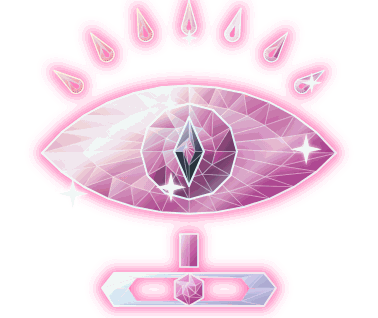
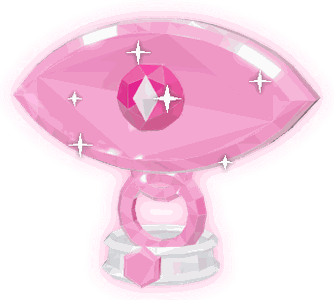
v27.26 베타 테라 관 = three.js 3D 결정 모델 19종, 관은 늘 체력 박스 밑
경완 '아 근데 디자인 왤케 플랫하지. 3d 모델 써서 뽑아볼 순 없어?' · '형태도 내가 보내준 캡처 사진들이랑 달라'
- assets_src/tera/crown3d: 캡처 실루엣대로 3D 모델(투명 굴절·분산·무지개 반사·깎인 면) → gym/img/dbk/Tera/cr/<타입>.png
경완 '배틀화면에서 왕관이 배틀박스 가리지 않게 해줘'
- gym.css .bt:has(.bt-tcr) .bt-hb z-index 7, battle.js tcOn 화면 위로 넘칠 때만 줄임

Claude-Session: https://claude.ai/code/session_012Z4iFhJSZVUqi84qFHnPor

diff --git a/assets_src/tera/crown3d/crown3d.js b/assets_src/tera/crown3d/crown3d.js
@@ -1,0 +1,182 @@
+/*
+ * 포켓에그 © 2026 flyweb123-code. 무단 사용·복제·수정·재배포 및 AI 학습·수집 금지 (LICENSE 참고).
+ * 포켓몬 관련 권리는 Nintendo·Creatures·GAME FREAK, 외부 자료는 각 권리자에게 있음.
+ * 이 코드·자료를 내려받아 활용해서 생기는 모든 법적 책임은 내려받아 활용한 사람에게 있으며, 제작자는 책임지지 않음.
+ * Copyright (c) 2026 flyweb123-code. No unauthorized use, copying, modification, redistribution or AI training/scraping.
+ * Anyone who downloads and uses this code or material bears all legal responsibility for that use; the author accepts no liability.
+ */
+// 테라 관 19종 3D 모델 (three.js) — 본가 캡처 실루엣을 따라 결정 덩어리로
+import * as THREE from './three.module.js';
+import { RoomEnvironment } from './jsm/environments/RoomEnvironment.js';
+import { mergeVertices } from './jsm/utils/BufferGeometryUtils.js';
+
+const W = 480, H = 400;
+const R = new THREE.WebGLRenderer({ antialias: true, alpha: true, preserveDrawingBuffer: true });
+R.setSize(W, H); R.setPixelRatio(1); R.outputColorSpace = THREE.SRGBColorSpace; R.toneMapping = THREE.ACESFilmicToneMapping; R.toneMappingExposure = .8;
+document.body.appendChild(R.domElement);
+const pm = new THREE.PMREMGenerator(R), ENV = pm.fromScene(new RoomEnvironment(), .04).texture;
+const BG = (() => { const c = document.createElement('canvas'); c.width = 512; c.height = 256; const x = c.getContext('2d'); const g = x.createLinearGradient(0, 0, 512, 256); ['#ffd0f0', '#c0e8ff', '#fff4c0', '#d8c8ff', '#c8ffe8'].forEach((k, i) => g.addColorStop(i / 4, k)); x.fillStyle = g; x.fillRect(0, 0, 512, 256); for (let i = 0; i < 40; i++) { x.fillStyle = `rgba(255,255,255,${Math.random() * .8})`; x.beginPath(); x.arc(Math.random() * 512, Math.random() * 256, 4 + Math.random() * 20, 0, 7); x.fill(); } const t = new THREE.CanvasTexture(c); t.mapping = THREE.EquirectangularReflectionMapping; t.colorSpace = THREE.SRGBColorSpace; return t; })();
+const cam = new THREE.PerspectiveCamera(26, W / H, .1, 100);
+
+let seed = 1; const rnd = () => (seed = (seed * 16807) % 2147483647) / 2147483647;
+// 결정 재질: 굴절빛(iridescence) + 반사 + 납작 면
+const gm = (c, o = {}) => new THREE.MeshPhysicalMaterial({ color: c, roughness: o.r ?? .06, metalness: o.m ?? .05, iridescence: o.ir ?? 1, iridescenceIOR: 1.9, iridescenceThicknessRange: [180, 820],
+  clearcoat: 1, clearcoatRoughness: .05, specularIntensity: 1, envMapIntensity: o.env ?? 1.5, flatShading: true, transparent: false, opacity: 1,
+  transmission: (o.m ?? .05) > .5 ? 0 : (o.tr ?? Math.min(.85, 1.25 - (o.op ?? .94))), thickness: 1.4, ior: 2.1, dispersion: 4, attenuationColor: new THREE.Color(c), attenuationDistance: 1.6,
+  emissive: new THREE.Color(o.em ?? c).multiplyScalar((o.ek ?? .16) * .5), side: THREE.DoubleSide });
+const GOLD = () => gm('#e6b44a', { m: 1, r: .22, ir: .3, op: 1, ek: .05 });
+const SILVER = () => gm('#e8ecf4', { m: .9, r: .18, ir: .5, op: 1, ek: .05 });
+// 면을 살짝 흔들어 깎은 결정처럼
+function jit(g, a = .06) { g.deleteAttribute('normal'); g.deleteAttribute('uv'); g = mergeVertices(g); const p = g.attributes.position, M = new Map();
+  for (let i = 0; i < p.count; i++) { const k = [p.getX(i), p.getY(i), p.getZ(i)].map(v => v.toFixed(3)).join(); if (!M.has(k)) M.set(k, [(rnd() - .5) * a, (rnd() - .5) * a, (rnd() - .5) * a]); const d = M.get(k); p.setXYZ(i, p.getX(i) + d[0], p.getY(i) + d[1], p.getZ(i) + d[2]); }
+  g = g.toNonIndexed(); g.computeVertexNormals(); return g; }
+function faceCol(g) { if (g.index) g = g.toNonIndexed(); const n = g.attributes.position.count, c = new Float32Array(n * 3); for (let i = 0; i < n; i += 3) { const v = .78 + rnd() * .42; for (let k = 0; k < 9; k++) c[i * 3 + k] = v; } g.setAttribute('color', new THREE.BufferAttribute(c, 3)); return g; }
+let G; const add = (geo, mat, pos = [0, 0, 0], rot = [0, 0, 0], sc = [1, 1, 1], par) => { const cry = mat.metalness < .5; if (cry) { geo = faceCol(geo); mat.vertexColors = true; } const m = new THREE.Mesh(geo, mat);
+  if (cry) m.add(new THREE.LineSegments(new THREE.EdgesGeometry(geo, 18), new THREE.LineBasicMaterial({ color: '#ffffff', transparent: true, opacity: .32 }))); m.position.set(...pos); m.rotation.set(...rot); m.scale.set(...(Array.isArray(sc) ? sc : [sc, sc, sc])); (par || G).add(m); return m; };
+const V2 = (x, y) => new THREE.Vector2(x, y), V3 = (x, y, z = 0) => new THREE.Vector3(x, y, z);
+const lathe = (pts, n = 10) => jit(new THREE.LatheGeometry(pts.map(p => V2(...p)), n), .02);
+const ico = (r, d = 1, a = .08) => jit(new THREE.IcosahedronGeometry(r, d), a * r);
+const oct = r => new THREE.OctahedronGeometry(r, 0);
+const shp = (pts, depth = .5, bev = .25, segs = 1, holes = []) => { const s = new THREE.Shape(pts.map(p => V2(...p))); holes.forEach(h => s.holes.push(new THREE.Path(h.map(p => V2(...p))))); const g = new THREE.ExtrudeGeometry(s, { depth, bevelEnabled: true, bevelThickness: bev, bevelSize: bev * .8, bevelSegments: segs, curveSegments: 6 }); g.translate(0, 0, -depth / 2); return jit(g, .015); };
+const tube = (pts, r, seg = 28, rs = 6) => new THREE.TubeGeometry(new THREE.CatmullRomCurve3(pts.map(p => V3(...p))), seg, r, rs, false);
+const drop = (r, h, n = 8) => lathe([[0, -r], [r * .7, -r * .7], [r, 0], [r * .8, h * .3], [r * .45, h * .65], [0, h]], n);
+const arcPts = (cx, cy, rx, ry, a0, a1, n = 16) => Array.from({ length: n + 1 }, (_, i) => { const a = a0 + (a1 - a0) * i / n; return [cx + Math.cos(a) * rx, cy + Math.sin(a) * ry]; });
+const star = (R0, r0, n = 5, rot = Math.PI / 2) => Array.from({ length: n * 2 }, (_, i) => { const a = rot + Math.PI * i / n, q = i % 2 ? r0 : R0; return [Math.cos(a) * q, Math.sin(a) * q]; });
+const hexP = (r, rot = Math.PI / 6) => Array.from({ length: 6 }, (_, i) => [Math.cos(rot + i * Math.PI / 3) * r, Math.sin(rot + i * Math.PI / 3) * r]);
+// 공통 받침: 낮은 흰 결정 띠 + 앞에 테라 보석
+function base(col, y = -2.05, w = .85, gold) { add(jit(new THREE.CylinderGeometry(w, w * 1.08, .42, 12, 1, true), .02), gold ? GOLD() : gm('#f4f6ff', { op: .97, ek: .1 }), [0, y, 0]);
+  add(jit(new THREE.TorusGeometry(w * 1.02, .09, 4, 14), .01), gold ? GOLD() : gm('#ffffff', { op: 1 }), [0, y + .21, 0], [Math.PI / 2, 0, 0]);
+  add(jit(new THREE.TorusGeometry(w * 1.06, .09, 4, 14), .01), gold ? GOLD() : gm('#ffffff', { op: 1 }), [0, y - .21, 0], [Math.PI / 2, 0, 0]);
+  add(shp(hexP(.26), .12, .07), gm(col, { op: 1, ek: .3 }), [0, y, w * 1.07]); }
+const C = { Normal: '#f4f6ff', Fire: '#ff5a2a', Water: '#3a9cff', Grass: '#5ad046', Electric: '#ffd21e', Ice: '#9ae8f8', Fighting: '#e8503a', Poison: '#b45ae6', Ground: '#e0aa3a', Flying: '#9ab8ff', Psychic: '#ff68b0', Bug: '#b8d830', Rock: '#d8b060', Ghost: '#8a6ad8', Dragon: '#7a5cff', Dark: '#d84a5a', Steel: '#d8dee8', Fairy: '#ff8ad8', Stellar: '#58b8ff' };
+const M = {
+  Normal() { // 큰 브릴리언트 다이아 + 금 테두리 + 양옆 둥근 보석 + 금 반지
+    const d = add(lathe([[0, 1.0], [1.05, 1.0], [1.75, .55], [1.8, .4], [0, -1.2]], 16), gm('#f8faff', { op: .9, ek: .08 }), [0, .75, 0], [.42, 0, 0], [1.15, 1.15, 1.15]);
+    add(jit(new THREE.TorusGeometry(2.07, .11, 5, 24), .01), GOLD(), [0, 1.2, -.08], [Math.PI / 2 + .42, 0, 0]);
+    [-1, 1].forEach(s => { add(tube([[s * .4, -.9, 0], [s * 1.6, -1.2, 0], [s * 2.25, -.5, 0], [s * 2.3, .0, 0]], .1), GOLD());
+      add(ico(.55, 1), gm('#ffffff', { op: .9 }), [s * 2.3, .1, 0]); add(jit(new THREE.TorusGeometry(.58, .08, 4, 14), .01), GOLD(), [s * 2.3, .1, 0]); });
+    add(tube([[-.35, -1.0, 0], [0, -1.5, 0], [.35, -1.0, 0]], .09), GOLD());
+    base('#fff4b0', -2.05, 1.0, 1); add(shp(star(.3, .13), .1, .05), gm('#ffe060', { op: 1, ek: .4 }), [0, -2.05, 1.12]); },
+  Fire() { // 촛불 샹들리에: 붉은 받침·팔, 유리 잔, 불꽃 결정 다발
+    base('#ff7a2a'); const red = () => gm('#d8202a', { op: .95, ek: .25 }), glass = () => gm('#ffe8e0', { op: .55, ek: .1 }), fl = () => gm('#ff6a1a', { op: .9, ek: .55, em: '#ff4a00' }), fy = () => gm('#fff0a0', { op: .85, ek: .7, em: '#ffd040' });
+    add(lathe([[0, -1.8], [.55, -1.75], [.3, -1.4], [.22, -.6], [.35, -.4], [0, -.35]], 8), red());
+    const F = [[0, .5, 1.55, 0], [-.85, .15, 1.25, .18], [.85, .15, 1.25, -.18], [-1.65, -.25, 1.0, .32], [1.65, -.25, 1.0, -.32], [-.45, .0, .9, .1], [.45, .0, .9, -.1]];
+    F.forEach(([x, y, h, rz], i) => { if (i) add(tube([[0, -.6, 0], [x * .5, -.9, .1], [x, -.75, 0], [x, y - .55, 0]], .07), red());
+      add(lathe([[0, -.35], [.32, -.3], [.38, 0], [.3, .05], [0, .02]], 8), glass(), [x, y - .45, 0]);
+      add(drop(.42, h * 1.5, 7), fl(), [x, y, 0], [0, 0, rz]); add(drop(.22, h * .8, 6), fy(), [x, y - .05, .18], [0, 0, rz]); }); },
+  Water() { // 분수: 마디 있는 기둥 + 위에서 양옆으로 말려 떨어지는 큰 물결 + 물방울
+    base('#3a9cff'); const w = () => gm('#4aaaff', { op: .86, ek: .22 }), wl = () => gm('#c8f0ff', { op: .8, ek: .2 });
+    add(lathe([[0, -1.85], [.5, -1.8], [.28, -1.4], [.42, -1.1], [.25, -.8], [.4, -.5], [.22, -.2], [.5, .1], [0, .2]], 8), w());
+    [-1, 1].forEach(s => { const P = [[0, .3], [.7, 1.25], [1.6, 1.45], [2.35, .95], [2.5, .2], [2.2, -.35], [1.9, -.05], [2.0, .5], [1.6, .9], [1.0, .85], [.35, .25]].map(([x, y]) => [x * s, y]);
+      add(shp(s > 0 ? P : P.slice().reverse(), .55, .22), w(), [0, 0, 0], [0, s * .25, 0]); add(ico(.3, 0), wl(), [s * 2.15, -.55, .1]); add(ico(.2, 0), wl(), [s * 1.55, -.6, .2]);
+      const Q = [[.1, .35], [.45, .85], [1.05, .95], [1.4, .55], [1.3, .1], [1.1, .3], [1.0, .6], [.6, .6], [.2, .25]].map(([x, y]) => [x * s, y]); add(shp(s > 0 ? Q : Q.slice().reverse(), .4, .16), wl(), [0, .25, .35], [0, s * .2, 0]); });
+    add(drop(.35, .9, 7), wl(), [0, .75, .2]); },
+  Grass() { // 해바라기
+    base('#5ad046'); const pet = () => gm('#e8f050', { op: .93, ek: .25 }), pg = () => gm('#9ae040', { op: .93, ek: .2 });
+    add(tube([[0, -1.85, 0], [.05, -1.2, 0], [0, -.5, 0]], .16, 10), gm('#3aa83a', { op: .95 }));
+    [-1, 1].forEach(s => add(shp([[0, 0], [.5, .3], [1.1, .2], [.6, -.2]].map(([x, y]) => [x * s, y]), .12, .1), gm('#4ac040', { op: .95 }), [s * .1, -1.45, 0], [0, 0, s * .3]));
+    const cy = .55; for (let i = 0; i < 16; i++) { const a = i * Math.PI * 2 / 16; add(jit(new THREE.ConeGeometry(.32, 1.15, 4), .02), i % 2 ? pet() : pg(), [Math.cos(a) * 1.35, cy + Math.sin(a) * 1.35, -.05], [0, 0, a - Math.PI / 2], [1, 1, .45]); }
+    add(jit(new THREE.CylinderGeometry(.95, 1.0, .45, 14), .03), gm('#e8781a', { op: .97, ek: .25 }), [0, cy, .1], [Math.PI / 2, 0, 0]);
+    for (let i = 0; i < 12; i++) { const a = i * 2.4, q = Math.sqrt(i / 12) * .7; add(ico(.17, 0), gm('#b04a0a', { op: 1, tr: 0 }), [Math.cos(a) * q, cy + Math.sin(a) * q, .38]); } },
+  Electric() { // 전구 + 안에 번개
+    base('#ffd21e', -2.05, 1.0, 1);
+    for (let i = 0; i < 3; i++) add(jit(new THREE.TorusGeometry(.62 - i * .04, .13, 5, 14), .01), GOLD(), [0, -1.0 - i * .28, 0], [Math.PI / 2, 0, 0]);
+    add(lathe([[0, -1.75], [.45, -1.7], [.6, -.9], [0, -.85]], 10), GOLD());
+    add(ico(1.65, 1, .05), gm('#fffbe0', { op: .22, ek: .05, ir: .6 }), [0, .65, 0], [0, 0, 0], [1, 1.05, 1]);
+    add(lathe([[0, -.95], [.62, -.9], [.9, -.4], [0, -.3]], 10), gm('#fffbe0', { op: .45 }));
+    const B = [[-1.1, .1], [-.6, 1.5], [-.15, .45], [.15, 1.4], [.6, .35], [1.1, 1.65], [.8, -.25], [.3, .75], [0, -.15], [-.3, .8]]; add(shp(B, .3, .1), gm('#ffb800', { op: 1, ek: 1.0, em: '#ff9a00', ir: .2, tr: 0, env: .8 }), [0, .05, 1.72], [0, 0, 0], [.8, .8, .6]); },
+  Ice() { // 눈 결정: 마름모 큰 보석들로 된 굵은 팔
+    base('#9ae8f8'); const ic = () => gm('#a8f0ff', { op: .88, ek: .22 }), iw = () => gm('#f0ffff', { op: .9, ek: .2 });
+    const cy = .45; add(ico(.5, 0), iw(), [0, cy, .1]);
+    for (let i = 0; i < 6; i++) { const a = Math.PI / 2 + i * Math.PI / 3, d = (q) => [Math.cos(a) * q, cy + Math.sin(a) * q, 0];
+      add(oct(1), ic(), d(.95), [0, 0, a + Math.PI / 4], [.55, .55, .3]); add(oct(1), iw(), d(1.75), [0, 0, a + Math.PI / 4], [.32, .32, .22]);
+      [-1, 1].forEach(s => { const b = d(1.25), ba = a + s * .95; add(oct(1), ic(), [b[0] + Math.cos(ba) * .4, b[1] + Math.sin(ba) * .4, 0], [0, 0, ba + Math.PI / 4], [.22, .22, .14]); }); } },
+  Fighting() { // 큰 주먹 결정 + 하늘색 회오리
+    base('#e8503a'); const r = () => gm('#e8402a', { op: .92, ek: .3 });
+    const F = [[-1.05, -1.55], [-1.15, .2], [-1.0, 1.25], [-.55, 1.55], [-.1, 1.45], [.35, 1.6], [.8, 1.4], [1.1, .9], [1.15, -.3], [.9, -1.55]];
+    add(shp(F, 1.1, .4, 2), r(), [0, .05, 0], [0, .15, 0]);
+    [[-.75, 1.25], [-.25, 1.4], [.25, 1.45], [.72, 1.25]].forEach(([x, y]) => add(ico(.32, 0), r(), [x, y, .55]));
+    add(shp([[-1.2, .2], [-.2, .0], [.3, .25], [.1, .55], [-1.1, .65]], .5, .2), gm('#ff6a4a', { op: .93, ek: .3 }), [0, -.15, .7]);
+    const cy = gm('#5ae8ff', { op: .85, ek: .6, em: '#2ad0ff' });
+    [[-.9, .0, .35, 1.55], [-.3, .25, .3, 1.4], [.35, -.15, .25, 1.25]].forEach(([y, tilt, rr, R0]) => add(new THREE.TorusGeometry(R0, rr * .28, 5, 30, Math.PI * 1.7), cy, [0, y, 0], [Math.PI / 2 + tilt, 0, 1 + y * 2])); },
+  Poison() { // 해골 + 뒤로 엇갈린 뼈
+    base('#b45ae6'); const pu = () => gm('#c890f0', { op: .9, ek: .2 }), dk = () => gm('#5a1a8a', { op: 1, ek: .3, tr: 0 }), bn = () => gm('#e8d8ff', { op: .92, ek: .15 });
+    [[1, 1], [-1, 1]].forEach(([s]) => { add(jit(new THREE.CylinderGeometry(.17, .17, 4.2, 6), .02), bn(), [0, .25, -.6], [0, 0, s * .75]);
+      [-1, 1].forEach(e => { const x = Math.sin(-s * .75) * 2.1 * e, y = .25 + Math.cos(s * .75) * 2.1 * e; add(ico(.28, 0), bn(), [x - .18, y, -.6]); add(ico(.28, 0), bn(), [x + .18, y + .1 * e, -.6]); }); });
+    add(ico(1.45, 1), pu(), [0, .55, 0], [0, 0, 0], [1, .95, .78]);
+    add(lathe([[0, -1.1], [.75, -1.05], [.85, -.45], [0, -.3]], 8), pu(), [0, -.05, 0]);
+    [-1, 1].forEach(s => add(ico(.42, 0), dk(), [s * .55, .45, 1.0], [0, 0, 0], [1, .9, .5])); add(oct(.2), dk(), [0, -.05, 1.05], [0, 0, 0], [1, 1.2, .5]);
+    for (let i = 0; i < 4; i++) add(jit(new THREE.BoxGeometry(.24, .3, .2), .01), bn(), [-.39 + i * .26, -.75, .72]); },
+  Ground() { // 반 지구(넓은 돔) + 양옆 둥근 돌
+    base('#e0aa3a', -2.05, 1.2, 1); const g = () => gm('#e8b040', { op: .95, ek: .2 }), o = () => gm('#ff8a2a', { op: .95, ek: .3 });
+    add(lathe([[0, 1.15], [1.0, 1.15], [1.7, .85], [2.1, .35], [2.25, -.2], [2.1, -.65], [1.4, -1.0], [0, -1.05]], 14), g(), [0, -.4, 0], [.35, 0, 0]);
+    for (let i = 0; i < 10; i++) { const a = i * Math.PI * 2 / 10; add(oct(.22), gm('#fff0b0', { op: .95 }), [Math.cos(a) * 1.45, .55 + Math.sin(a) * .5 * .35 - .05, Math.sin(a) * 1.45 * .94 - .4 + .45], [0, 0, 0], [1, 1, .6]); }
+    [-1, 1].forEach(s => { add(ico(.62, 1), o(), [s * 2.65, -.15, 0]); add(ico(.38, 0), o(), [s * 2.25, .9, -.2]); }); },
+  Flying() { // 풍선 묶음
+    base('#9ab8ff'); const bl = [['#4ae070', -1.2, .35, -.2], ['#ff4a5a', 0, .85, 0], ['#4ae070', 1.2, .35, -.2], ['#7ab0ff', .05, -.05, -.6]];
+    bl.forEach(([c, x, y, z]) => { add(ico(.85, 1, .06), gm(c, { op: .9, ek: .25 }), [x, y, z], [0, 0, 0], [1, 1.15, 1]); add(oct(.14), gm(c, { op: 1 }), [x, y - 1.0, z]);
+      add(tube([[x, y - 1.05, z], [x * .6, y - 1.5, z], [0, -1.75, 0]], .025, 10, 4), gm('#ffffff', { op: 1, ir: 0 })); }); },
+  Psychic() { // 눈 (렌즈) + 두 겹 원 받침
+    base('#ff68b0'); const p = () => gm('#ff7ac0', { op: .88, ek: .25 });
+    add(jit(new THREE.TorusGeometry(.62, .16, 5, 16), .01), p(), [0, -1.35, 0]); add(jit(new THREE.TorusGeometry(.42, .13, 5, 14), .01), p(), [0, -.65, 0]);
+    const E = []; for (let i = 0; i <= 16; i++) { const x = -2.2 + 4.4 * i / 16; E.push([x, 1.0 * (1 - (x / 2.2) ** 2) ** .8]); } for (let i = 15; i > 0; i--) { const x = -2.2 + 4.4 * i / 16; E.push([x, -1.0 * (1 - (x / 2.2) ** 2) ** .8]); }
+    add(shp(E, .5, .3, 2), p(), [0, .55, 0]); add(ico(.62, 1), gm('#d0207a', { op: .95, ek: .3, tr: .2 }), [0, .55, .4], [0, 0, 0], [1, 1, .6]); add(oct(.3), gm('#ffe0ff', { op: 1, ek: .5 }), [0, .55, .75], [0, 0, 0], [.7, 1.2, .5]); },
+  Bug() { // 말린 더듬이 둘 + 가운데 하트 결정
+    base('#b8d830'); const g = () => gm('#b8e040', { op: .92, ek: .25 });
+    [-1, 1].forEach(s => { add(tube([[s * .2, -1.6, 0], [s * .55, -.6, 0], [s * 1.25, .4, 0], [s * 1.55, 1.3, 0], [s * 1.25, 1.75, 0], [s * .9, 1.5, 0], [s * 1.0, 1.15, 0]], .14, 36), g()); add(ico(.3, 0), gm('#f0ff90', { op: .95 }), [s * 1.0, 1.1, 0]); });
+    const Hh = []; for (let i = 0; i < 24; i++) { const t = Math.PI * 2 * i / 24; Hh.push([16 * Math.sin(t) ** 3 / 30, (13 * Math.cos(t) - 5 * Math.cos(2 * t) - 2 * Math.cos(3 * t) - Math.cos(4 * t)) / 30]); }
+    add(shp(Hh, .3, .15), gm('#ff80a8', { op: .92, ek: .3 }), [0, -.35, .1]); add(lathe([[0, -1.85], [.55, -1.8], [.3, -1.0], [0, -.95]], 8), g()); },
+  Rock() { // 고대 신전: 지붕·기둥·돌 받침 + 양옆 돌
+    const s = () => gm('#e8c070', { op: .96, ek: .18 }), o = () => gm('#ff9a3a', { op: .95, ek: .3 });
+    add(jit(new THREE.BoxGeometry(3.4, .32, 1.3), .02), s(), [0, -2.0, 0]); add(jit(new THREE.BoxGeometry(3.0, .3, 1.15), .02), s(), [0, -1.7, 0]);
+    for (let i = 0; i < 4; i++) add(jit(new THREE.CylinderGeometry(.22, .25, 2.1, 8), .02), s(), [-1.1 + i * .73, -.5, .2]);
+    add(jit(new THREE.BoxGeometry(3.1, .3, 1.15), .02), s(), [0, .65, 0]); add(shp([[-1.75, 0], [1.75, 0], [0, 1.1]], .9, .12), s(), [0, .82, 0]);
+    add(ico(.25, 0), o(), [0, 1.3, .55]); [-1, 1].forEach(k => add(ico(.48, 1), o(), [k * 2.15, -.4, 0])); },
+  Ghost() { // 둥근 유령 + 아래로 말리는 꼬리
+    base('#8a6ad8'); const g = () => gm('#a88aff', { op: .85, ek: .3 });
+    add(lathe([[0, -.6], [.9, -.4], [1.25, .35], [1.15, 1.0], [.7, 1.5], [0, 1.65]], 12), g(), [0, .05, 0]);
+    add(tube([[0, -.4, 0], [.3, -1.0, .1], [-.2, -1.45, .2], [-.75, -1.35, .2], [-.9, -1.0, .1]], .28, 24, 7), g());
+    [-1, 1].forEach(s => add(tube([[s * 1.15, .55, 0], [s * 1.7, .35, .1], [s * 1.85, .85, .1]], .16, 12, 6), g()));
+    [-1, 1].forEach(s => add(ico(.27, 0), gm('#2a0a5a', { op: 1, ek: .2, tr: 0 }), [s * .42, .75, 1.05], [0, 0, 0], [.8, 1.2, .5])); },
+  Dragon() { // 붉은 큰 날개 둘 + 가운데 뾰족한 용 머리
+    base('#7a5cff'); const rw = () => gm('#ff3a4a', { op: .9, ek: .3 });
+    [-1, 1].forEach(s => { const P = [[.3, -.6], [1.1, -.3], [1.9, -.5], [2.3, .2], [2.6, 1.7], [2.0, 1.3], [1.6, 1.9], [1.1, 1.0], [.4, .7]].map(([x, y]) => [x * s, y]); add(shp(s > 0 ? P : P.slice().reverse(), .25, .12), rw(), [0, 0, -.3], [0, -s * .45, 0]); });
+    const hd = () => gm('#c8e0ff', { op: .9, ek: .25 }); add(ico(.85, 0), hd(), [0, .2, .2], [0, 0, 0], [1, 1.25, .8]);
+    [[-.45, 1.0, .35], [.45, 1.0, -.35], [0, 1.25, 0], [-.75, .55, .8], [.75, .55, -.8]].forEach(([x, y, rz]) => add(jit(new THREE.ConeGeometry(.22, 1.0, 5), .02), hd(), [x, y, .2], [0, 0, rz]));
+    add(jit(new THREE.ConeGeometry(.42, 1.1, 6), .02), hd(), [0, -.75, .35], [Math.PI, 0, 0]); },
+  Dark() { // 가시 많은 둥근 관 + 비웃는 얼굴
+    base('#d84a5a'); const sp = () => gm('#ffd0d4', { op: .9, ek: .2 }), rr = () => gm('#e84a5a', { op: .92, ek: .3 });
+    for (let i = 0; i < 18; i++) { const a = i * Math.PI * 2 / 18, L = i % 2 ? 1.1 : 1.6; add(jit(new THREE.ConeGeometry(.28, L, 4), .02), i % 3 ? sp() : rr(), [Math.cos(a) * (1.05 + L / 2), .5 + Math.sin(a) * (1.05 + L / 2), -.2], [0, 0, a - Math.PI / 2]); }
+    add(ico(1.15, 1), gm('#f0e0e4', { op: .92, ek: .15 }), [0, .5, 0], [0, 0, 0], [1, 1, .7]);
+    [-1, 1].forEach(s => add(shp([[0, 0], [.45, .18], [.4, .32], [-.02, .12]].map(([x, y]) => [x * s, y]), .1, .04), gm('#ffd020', { op: 1, ek: .8, tr: 0 }), [s * .2, .7, .8], [0, 0, -s * .2]));
+    add(shp([[-.6, .0], [-.3, -.12], [-.15, .02], [0, -.15], [.15, .02], [.3, -.12], [.65, .1], [.4, -.4], [0, -.5], [-.4, -.38]], .1, .04), gm('#ff3a5a', { op: 1, ek: .6, tr: 0 }), [0, .25, .82]); },
+  Steel() { // 큰 도끼: 자루 + 크고 투명한 날
+    base('#d8dee8'); add(jit(new THREE.CylinderGeometry(.15, .17, 3.9, 6), .01), SILVER(), [0, -.2, 0]);
+    add(shp([[.1, .3], [.9, .0], [1.8, -.1], [2.05, .6], [2.1, 1.6], [1.85, 2.1], [.9, 1.75], [.1, 1.55]], .38, .2, 2), gm('#ffffff', { op: .85, ek: .1 }), [0, -.15, 0], [0, -.35, 0]);
+    add(shp([[-.1, .55], [-.75, .8], [-.85, 1.05], [-.1, 1.25]], .3, .12), SILVER(), [0, -.05, 0]); add(jit(new THREE.ConeGeometry(.17, .5, 6), .01), SILVER(), [0, 1.95, 0]);
+    for (let i = 0; i < 3; i++) add(jit(new THREE.TorusGeometry(.2, .06, 4, 10), .005), GOLD(), [0, -.6 - i * .3, 0], [Math.PI / 2, 0, 0]); },
+  Fairy() { // 큰 하트 + 위로 휘는 흰 뿔에 물방울 보석 + 리본
+    const pk = () => gm('#ff6ad0', { op: .9, ek: .3 }), wt = () => gm('#ffffff', { op: .88, ek: .1 });
+    const Hh = []; for (let i = 0; i < 28; i++) { const t = Math.PI * 2 * i / 28; Hh.push([16 * Math.sin(t) ** 3 / 13, (13 * Math.cos(t) - 5 * Math.cos(2 * t) - 2 * Math.cos(3 * t) - Math.cos(4 * t)) / 13]); }
+    add(shp(Hh, .8, .4, 2), pk(), [0, .2, 0]);
+    [-1, 1].forEach(s => { const P = [[s * .6, 1.05, -.2], [s * 1.6, 1.15, -.1], [s * 2.3, 1.75, 0], [s * 2.45, 2.25, 0]]; add(tube(P, .15, 24), wt());
+      const cv = new THREE.CatmullRomCurve3(P.map(p => V3(...p))); for (let i = 0; i < 5; i++) { const q = cv.getPoint(.15 + i * .19); add(drop(.2, .45, 6), wt(), [q.x + s * .12, q.y - .32, q.z + .1], [0, 0, Math.PI + s * .45]); } });
+    const rb = () => gm('#ffb0e8', { op: .93, ek: .25 });
+    [-1, 1].forEach(s => { add(jit(new THREE.TorusGeometry(.32, .12, 5, 12), .01), rb(), [s * .4, -1.6, .25], [0, 0, 0], [1, .7, 1]); add(shp([[0, 0], [s * .25, -.7], [s * .45, -.6]], .12, .06), rb(), [s * .1, -1.65, .25]); });
+    add(ico(.18, 0), gm('#c890ff', { op: 1, ek: .4 }), [0, -1.6, .45]); },
+  Stellar() { // 여러 색 육각 결정 층층 + 위에 파란 테라 별
+    base('#58b8ff'); const cols = ['#ff6a8a', '#ffb43c', '#f4e43c', '#4ee08a', '#44b4ff', '#a070ff', '#ff6ad0', '#ff7a2a', '#6ae8ff', '#c8d0e0'];
+    const rows = [[7, -1.35, .58], [5, -.35, .6], [3, .6, .6]]; let k = 0;
+    rows.forEach(([n, y, r]) => { for (let i = 0; i < n; i++) { const x = (i - (n - 1) / 2) * r * 1.65; add(jit(new THREE.CylinderGeometry(r * .78, r * .78, .3, 6), .02), gm(cols[k++ % cols.length], { op: .9, ek: .35 }), [x, y - Math.abs(x) * .12, -Math.abs(x) * .12], [Math.PI / 2, 0, 0]); } });
+    add(shp(star(1.05, .5), .3, .12, 1, [hexP(.28).slice().reverse()]), gm('#3a8aff', { op: .92, ek: .5 }), [0, 1.75, .1]); },
+};
+window.renderType = (t) => { seed = 11 + t.length * 97; const S = new THREE.Scene(); S.environment = ENV;
+  const L1 = new THREE.DirectionalLight('#ffffff', 1.6); L1.position.set(-3, 5, 6); S.add(L1);
+  const L2 = new THREE.PointLight('#ff9ad8', 10, 0, 1.6); L2.position.set(4, 2, 3); S.add(L2); const L3 = new THREE.PointLight('#8ae8ff', 10, 0, 1.6); L3.position.set(-4, -1, 3); S.add(L3); S.add(new THREE.AmbientLight('#ffffff', .15));
+  G = new THREE.Group(); S.add(G); M[t](); G.rotation.set(.12, -.32, 0);
+  const box = new THREE.Box3().setFromObject(G), c = box.getCenter(V3()), sz = box.getSize(V3()); G.position.sub(c);
+  const fit = Math.max(sz.x / (W / H), sz.y) * .55 / Math.tan(THREE.MathUtils.degToRad(13)); cam.position.set(0, 0, fit + sz.z); cam.lookAt(0, 0, 0);
+  S.background = BG; R.setClearColor(0x000000, 1); R.render(S, cam); const col = R.domElement.toDataURL('image/png');
+  S.background = null; S.overrideMaterial = WHITE; G.traverse(o => { if (o.isLineSegments) o.visible = false; }); R.setClearColor(0x000000, 0); R.render(S, cam); const mask = R.domElement.toDataURL('image/png'); S.overrideMaterial = null; return [col, mask]; };
+const WHITE = new THREE.MeshBasicMaterial({ color: '#ffffff', side: THREE.DoubleSide });
+window.TYPES = Object.keys(M); window.ready = 1;

diff --git a/gymb/battle.js b/gymb/battle.js
@@ -566,8 +566,8 @@ function tcOn(s, ty) { tcOff(s); const m = monEl(s), mw = m?.closest('.bt-mw'); 
   const st = TC[s] = { el, live: 1 }, cr = el.firstChild, tw = [...el.querySelectorAll('b')], [li] = GymDBK.tyCol(ty); el.style.setProperty('--tl', `rgb(${li.join(',')})`);
   const loop = () => { if (!st.live) return; requestAnimationFrame(loop); if (document.hidden) return; const img = m.querySelector('.clip img'); if (!img || !img.offsetWidth || m.classList.contains('faint') || !m.classList.contains('tera')) { el.style.opacity = 0; if (!m.classList.contains('tera')) tcOff(s); return; }
     let R = mw.getBoundingClientRect(), q = R.width / (mw.offsetWidth || 256) || 1, r = img.getBoundingClientRect(), w = r.width / q, h = r.height / q, G = gxTop(img), cw = Math.max(44, Math.min(150, w * .9))   /* 경완 '왕관은 포켓몬 머리 위에 크게': 본가처럼 몸 폭만큼 */, x = (r.left - R.left) / q + w * G.x, y = (r.top - R.top) / q + h * G.y;
-    const top = 2;   /* 경완 '왕관은 포켓몬 머리 위에 크게': 화면 위로 넘치면 그만큼만 줄임. 위 체력 박스와 겹치면 관이 박스 뒤로 (박스를 가리지 않게) */
-    { const room = y + cw * .84 * .12 - top; if (cw * .84 > room) cw = Math.max(40, room / .84); } let cy = Math.max(top, y - cw * .84 * .9);
+    const top = 2; { const room = y + cw * .84 * .2 - top; if (cw * .84 > room) cw = Math.max(40, room / .84); }   /* 경완 '배틀화면에서 왕관이 배틀박스 가리지 않게': 관은 늘 체력 박스 밑(gym.css .bt:has(.bt-tcr) .bt-hb), 화면 위로 넘칠 때만 줄임 */
+    let cy = Math.max(top, y - cw * .84 * .9);
     el.style.opacity = getComputedStyle(m).opacity; cr.style.cssText = `background-image:${cr.style.backgroundImage};width:${cw}px;height:${cw * .84}px;left:${x - cw / 2}px;top:${cy}px`;
     tw.forEach((b, i) => { if (!b._t || performance.now() > b._t) { b._t = performance.now() + 900 + Math.random() * 1400; b.style.left = (r.left - R.left) / q + w * (.2 + Math.random() * .6) + 'px'; b.style.top = (r.top - R.top) / q + h * (G.y + (1 - G.y) * (.1 + Math.random() * .7)) + 'px'; b.classList.remove('on'); void b.offsetWidth; b.classList.add('on'); } }); };
   requestAnimationFrame(loop); }

diff --git a/assets_src/tera/crown3d/run.js b/assets_src/tera/crown3d/run.js
@@ -1,0 +1,14 @@
+/*
+ * 포켓에그 © 2026 flyweb123-code. 무단 사용·복제·수정·재배포 및 AI 학습·수집 금지 (LICENSE 참고).
+ * 포켓몬 관련 권리는 Nintendo·Creatures·GAME FREAK, 외부 자료는 각 권리자에게 있음.
+ * 이 코드·자료를 내려받아 활용해서 생기는 모든 법적 책임은 내려받아 활용한 사람에게 있으며, 제작자는 책임지지 않음.
+ * Copyright (c) 2026 flyweb123-code. No unauthorized use, copying, modification, redistribution or AI training/scraping.
+ * Anyone who downloads and uses this code or material bears all legal responsibility for that use; the author accepts no liability.
+ */
+const { chromium } = require('playwright'); const fs = require('fs');
+(async () => { const b = await chromium.launch({ args: ['--use-angle=swiftshader', '--enable-unsafe-swiftshader', '--ignore-gpu-blocklist'] }); const p = await b.newPage();
+  p.on('pageerror', e => console.log('ERR', e.message)); p.on('console', m => { if (m.type() === 'error' || m.type() === 'warning') console.log(m.text().slice(0, 200)); });
+  await p.goto('http://localhost:8793/index.html'); await p.waitForFunction(() => window.ready, null, { timeout: 30000 });
+  const only = process.argv[2]; const T = await p.evaluate(() => TYPES); fs.mkdirSync('raw', { recursive: true });
+  for (const t of T) { if (only && !only.split(',').includes(t)) continue; const [u, m] = await p.evaluate(t => renderType(t), t); fs.writeFileSync(`raw/${t}_c.png`, Buffer.from(u.split(',')[1], 'base64')); fs.writeFileSync(`raw/${t}_m.png`, Buffer.from(m.split(',')[1], 'base64')); }
+  await b.close(); })();

diff --git a/gymb/gym.css b/gymb/gym.css
@@ -4779,6 +4779,7 @@ h4.ul-t{display:flex;flex-direction:column;align-items:center;gap:2px;text-align
 .bt .bb.gkb.terastallize.gkfl::after{border-color:#9fe6ff;box-shadow:0 0 14px 4px rgba(60,190,255,.85)}
 .bt-tcr{z-index:1}
 
-.bt.tmon .bt-hb{z-index:7}   /* 경완 2026-11-19 '그 그래픽이 배틀화면에서 배틀박스 가리지 않게': 도전자 테라스탈 결정이 체력 박스 밑으로 */
+.bt.tmon .bt-hb{z-index:7}
+.bt:has(.bt-tcr) .bt-hb{z-index:7}   /* 경완 '배틀화면에서 왕관이 배틀박스 가리지 않게': 관(.bt-tcr)은 늘 체력 박스 밑으로 */   /* 경완 2026-11-19 '그 그래픽이 배틀화면에서 배틀박스 가리지 않게': 도전자 테라스탈 결정이 체력 박스 밑으로 */
 
 .bt-tcr .cr{background-position:center bottom}   /* v27.26 직접 그린 결정 관 */

diff --git a/assets_src/tera/crown3d/index.html b/assets_src/tera/crown3d/index.html
@@ -1,0 +1,1 @@
+<!doctype html><body style="margin:0;background:transparent"><script type="importmap">{"imports":{"three":"./three.module.js"}}</script><script type="module" src="crown3d.js"></script></body>

diff --git a/assets_src/tera/crown3d/post.py b/assets_src/tera/crown3d/post.py
@@ -1,0 +1,28 @@
+# 포켓에그 © 2026 flyweb123-code. 무단 사용·복제·수정·재배포 및 AI 학습·수집 금지 (LICENSE 참고).
+import sys,os,random
+from PIL import Image,ImageFilter,ImageDraw,ImageChops
+C={'Normal':'#e8f0ff','Fire':'#ff6a2a','Water':'#3aa0ff','Grass':'#7ae040','Electric':'#ffd21e','Ice':'#8ae8ff','Fighting':'#ff5a3a','Poison':'#c070ff','Ground':'#ffb040','Flying':'#9ab8ff','Psychic':'#ff68b0','Bug':'#c8e030','Rock':'#ffc060','Ghost':'#a080ff','Dragon':'#ff5a6a','Dark':'#ff6a7a','Steel':'#e0e8ff','Fairy':'#ff8ad8','Stellar':'#8ad0ff'}
+os.makedirs('out',exist_ok=True)
+for t,c in C.items():
+    if not os.path.exists(f'raw/{t}_c.png'): continue
+    im=Image.open(f'raw/{t}_c.png').convert('RGBA'); im.putalpha(Image.open(f'raw/{t}_m.png').split()[3]); W,H=im.size
+    a=im.split()[3]
+    # 빛 번짐: 모양 둘레 타입 색 + 밝은 곳 흰 번짐
+    glow=Image.new('RGBA',im.size,c); g=a.filter(ImageFilter.GaussianBlur(9)).point(lambda v:int(v*.6)); glow.putalpha(g)
+    lum=im.convert('L').point(lambda v:255 if v>248 else 0); lum=ImageChops.multiply(lum,a).filter(ImageFilter.GaussianBlur(5)).point(lambda v:min(255,int(v*1.4)))
+    wg=Image.new('RGBA',im.size,'#ffffff'); wg.putalpha(lum)
+    out=Image.alpha_composite(glow,im); out=Image.alpha_composite(out,wg.point(lambda v:v) if False else wg)
+    # 반짝이
+    random.seed(t); sp=Image.new('RGBA',im.size,(0,0,0,0)); d=ImageDraw.Draw(sp)
+    px=a.load(); pts=[(x,y) for x in range(0,W,6) for y in range(0,int(H*.8),6) if px[x,y]>200]
+    for _ in range(6):
+        if not pts: break
+        x,y=random.choice(pts); r=random.randint(7,14); q=r*.16
+        d.polygon([(x,y-r),(x+q,y-q),(x+r,y),(x+q,y+q),(x,y+r),(x-q,y+q),(x-r,y),(x-q,y-q)],fill=(255,255,255,255))
+    spg=sp.filter(ImageFilter.GaussianBlur(2.2)); out=Image.alpha_composite(out,spg); out=Image.alpha_composite(out,sp)
+    out.save(f'out/{t}.png')
+# 한 장 보기
+T=list(C); cw,ch=240,200; S=Image.new('RGB',(cw*5,ch*4),'#1a1626')
+for i,t in enumerate(T):
+    im=Image.open(f'out/{t}.png').resize((cw,ch)); S.paste(im,((i%5)*cw,(i//5)*ch),im)
+S.save('sheet.png')

diff --git a/assets_src/tera/crown3d/README.md b/assets_src/tera/crown3d/README.md
@@ -1,0 +1,2 @@
+# 테라 관 3D
+three@0.165.0 을 npm 으로 받아 three.module.js·jsm/ 를 이 폴더에 두고 http 서버로 연 뒤 node run.js → python3 post.py → out/<타입>.png. 게임엔 잘라 줄여 gym/img/dbk/Tera/cr/ 에.
